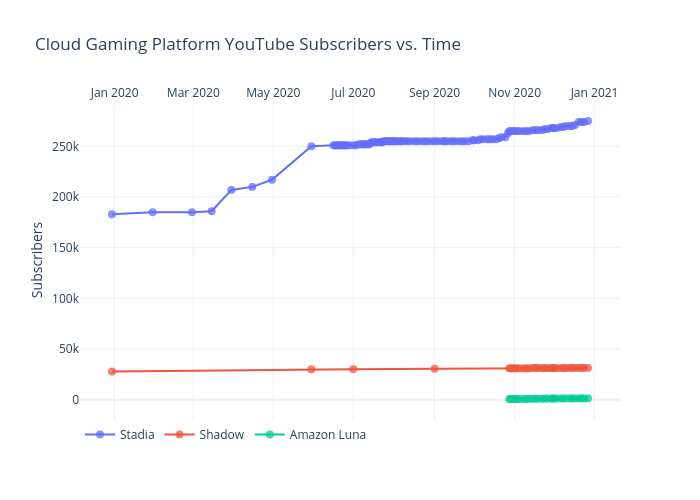
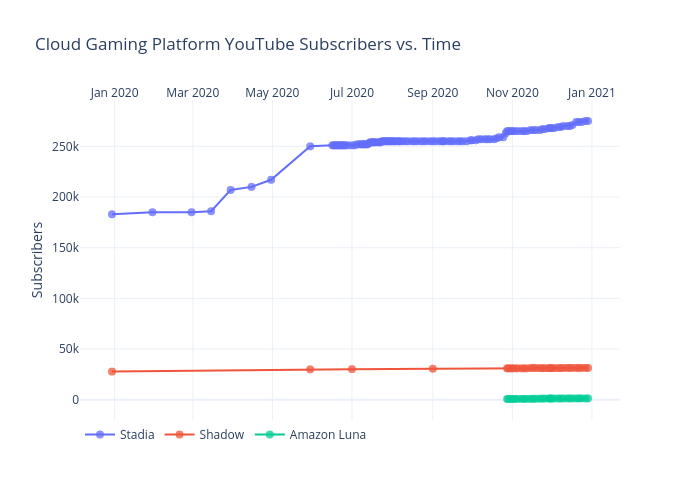
Add files via upload

diff --git a/youtube_platforms/figure.js b/youtube_platforms/figure.js
@@ -261,6 +261,7 @@ var figure = {
                 "274000",
                 "274000",
                 "274000",
+                "275000",
                 "275000"
             ],
             "marker": {
@@ -526,6 +527,7 @@ var figure = {
                 "31200",
                 "31300",
                 "31300",
+                "31400",
                 "31400",
                 "31400",
                 "31400",
@@ -803,6 +805,7 @@ var figure = {
                 "1340",
                 "1340",
                 "1350",
+                "1360",
                 "1360"
             ],
             "marker": {
@@ -822,8 +825,8 @@ var figure = {
             "side": "top",
             "type": "date",
             "range": [
-                "2019-12-07 06:02:09.9706",
-                "2021-01-18 17:57:50.0294"
+                "2019-12-07 10:22:25.6804",
+                "2021-01-20 13:37:34.3196"
             ],
             "title": {
                 "text": ""
@@ -833,8 +836,8 @@ var figure = {
         "yaxis": {
             "type": "linear",
             "range": [
-                -18042.38816250292,
-                293793.3881625029
+                -18872.056867261737,
+                294623.05686726177
             ],
             "title": {
                 "text": "Subscribers"
